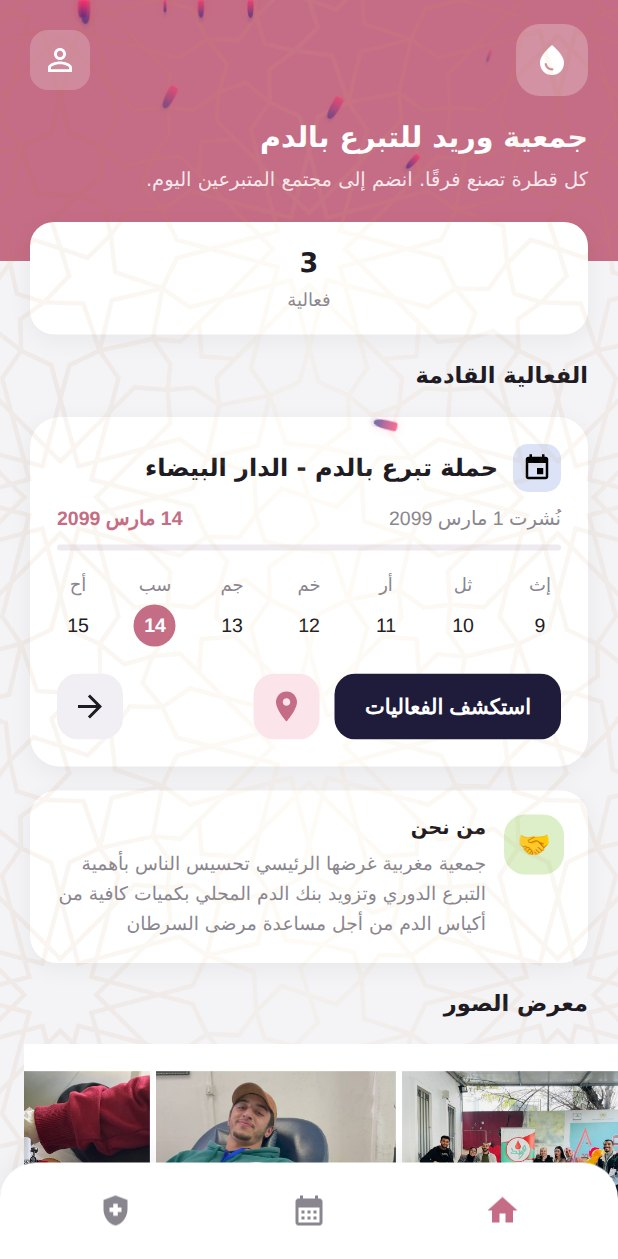
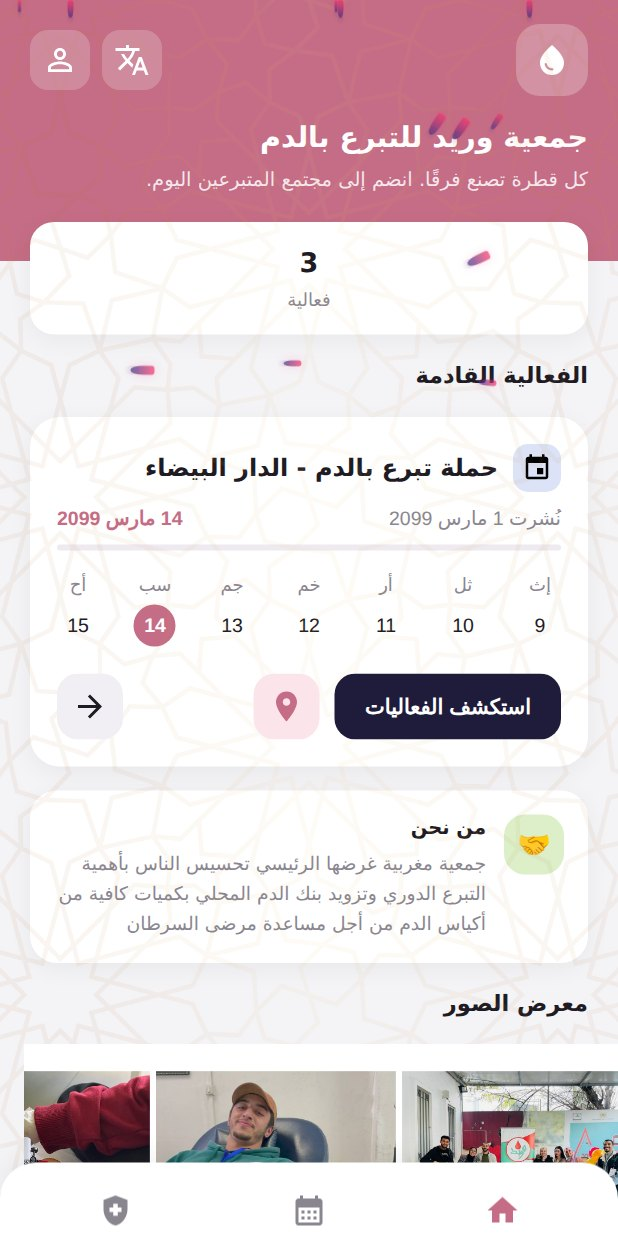
Offer the language switcher on the landing page (#455)
Issue #421 mounted LanguageSwitcher in AuthHeader and on /profile, reasoning
that "the language a first-time visitor reads is settled before they have an
account to open a profile screen with" -- and then skipped the one screen
that visitor actually lands on. A logged-out reader on /home had no way to
change language without first navigating to /login, which is the screen the
reasoning was meant to make unnecessary.

The control now sits in the hero's top row, grouped with the account button
rather than replacing it: that button is the landing page's only route to
signing in, so a test pins that it still reaches /login. It reuses the
heroAccountButton treatment, the same way AuthHeader gives it the back
button's, so it reads as part of the rose header rather than bolted on. The
new heroActions style keeps the two controls together so the water-drop mark
keeps the opposite end of the row to itself.

Four tests: the switcher is offered to a logged-out visitor on /home;
choosing French translates the landing page itself rather than only the menu;
the choice survives a reload and the document direction follows it, which is
what "settled before creating an account" actually requires; and the account
button is still reachable beside it.

The README's landing screenshot is regenerated, since the hero changed.

Verified: 186 Playwright, 358 backend, 72 Vitest, typecheck and both lints.
One full-suite run flagged the issue #373 token-refresh concurrency test,
[…]

diff --git a/extranet/e2e/language-switcher.spec.ts b/extranet/e2e/language-switcher.spec.ts
@@ -58,3 +58,61 @@ test.describe('Language switcher', () => {
 		expect(await page.evaluate(() => document.documentElement.dir)).toBe('rtl');
 	});
 });
+
+test.describe('Language switcher on the landing page (issue #455)', () => {
+	// #421 mounted the switcher in AuthHeader and on /profile, reasoning that
+	// "the language a first-time visitor reads is settled before they have an
+	// account to open a profile screen with". The landing page is the first
+	// screen that visitor actually sees, and it was the one place the control
+	// was never added -- so changing language meant navigating to /login first.
+	test('a logged-out visitor is offered the switcher on /home', async ({ page }) => {
+		await mockJson(page, '**/api/events*', { events: [], totalItems: 0 });
+		await page.goto('/home');
+
+		await expect(page.getByRole('button', { name: 'تغيير اللغة' })).toBeVisible({
+			timeout: 15000,
+		});
+	});
+
+	test('choosing French translates the landing page itself', async ({ page }) => {
+		await mockJson(page, '**/api/events*', { events: [], totalItems: 0 });
+		await page.goto('/home');
+
+		await page.getByRole('button', { name: 'تغيير اللغة' }).click();
+		await page.getByRole('menuitem', { name: 'Français' }).click();
+
+		// The hero subtitle is landing.heroSubtitle, so this proves the page
+		// re-rendered in the chosen language rather than only the menu.
+		await expect(
+			page.getByText('Chaque goutte fait la différence', { exact: false })
+		).toBeVisible({ timeout: 15000 });
+	});
+
+	test('the choice survives a reload, so it is settled before signing up', async ({ page }) => {
+		await mockJson(page, '**/api/events*', { events: [], totalItems: 0 });
+		await page.goto('/home');
+
+		await page.getByRole('button', { name: 'تغيير اللغة' }).click();
+		await page.getByRole('menuitem', { name: 'Français' }).click();
+		await expect(
+			page.getByText('Chaque goutte fait la différence', { exact: false })
+		).toBeVisible({ timeout: 15000 });
+
+		await page.reload();
+
+		// Persisted under warid_language, and the document direction follows.
+		await expect(
+			page.getByText('Chaque goutte fait la différence', { exact: false })
+		).toBeVisible({ timeout: 15000 });
+		await expect(page.locator('html')).toHaveAttribute('dir', 'ltr');
+	});
+
+	test('the account button is still reachable beside it', async ({ page }) => {
+		// Guards against the switcher displacing the only route to signing in.
+		await mockJson(page, '**/api/events*', { events: [], totalItems: 0 });
+		await page.goto('/home');
+
+		await page.getByRole('button', { name: 'حسابي' }).click();
+		await expect(page).toHaveURL(/\/login$/);
+	});
+});

diff --git a/extranet/src/components/home/LandingPage.tsx b/extranet/src/components/home/LandingPage.tsx
@@ -9,6 +9,7 @@ import { useAuth } from '../../auth/AuthContext';
 import { Event } from '@/types';
 import { useEvents } from '../../hooks';
 import { landingRedesignStyles } from '../../styles/landingRedesign';
+import LanguageSwitcher from '../shared/LanguageSwitcher';
 import RedesignBottomNav from '../shared/RedesignBottomNav';
 import EventOverviewCard from '../shared/EventOverviewCard';
 import BloodDropsAnimation from './BloodDropsAnimation';
@@ -25,6 +26,7 @@ const LandingPage = () => {
 		heroTopRow,
 		heroIcon,
 		heroAccountButton,
+		heroActions,
 		heroTitle,
 		heroSubtitle,
 		content,
@@ -95,13 +97,27 @@ const LandingPage = () => {
 					<div className={heroIcon}>
 						<WaterDropIcon />
 					</div>
-					<IconButton
-						className={heroAccountButton}
-						aria-label={t('landing.myAccount')}
-						onClick={() => navigate(token ? '/profile' : '/login')}
-					>
-						<PersonOutlineIcon />
-					</IconButton>
+					{/*
+						The language control belongs here most of all. #421 put it
+						in AuthHeader and on /profile reasoning that "the language
+						a first-time visitor reads is settled before they have an
+						account to open a profile screen with" -- and then skipped
+						the one screen that visitor actually lands on, so changing
+						language meant navigating to /login first. See issue #455.
+
+						Grouped with the account button rather than replacing it:
+						that button is the landing page's only route to signing in.
+					*/}
+					<div className={heroActions}>
+						<LanguageSwitcher className={heroAccountButton} />
+						<IconButton
+							className={heroAccountButton}
+							aria-label={t('landing.myAccount')}
+							onClick={() => navigate(token ? '/profile' : '/login')}
+						>
+							<PersonOutlineIcon />
+						</IconButton>
+					</div>
 				</div>
 				<Typography className={heroTitle}>{t('landing.heroTitle')}</Typography>
 				<Typography className={heroSubtitle}>{t('landing.heroSubtitle')}</Typography>

diff --git a/extranet/src/styles/landingRedesign.ts b/extranet/src/styles/landingRedesign.ts
@@ -30,6 +30,13 @@ export const landingRedesignStyles = makeStyles({
 		alignItems: 'center',
 		justifyContent: 'center',
 	},
+	// Holds the language switcher and the account button together, so the
+	// water-drop mark keeps the opposite end of the row to itself.
+	heroActions: {
+		display: 'flex',
+		alignItems: 'center',
+		gap: '8px',
+	},
 	heroAccountButton: {
 		'&.MuiIconButton-root': {
 			width: '40px',
